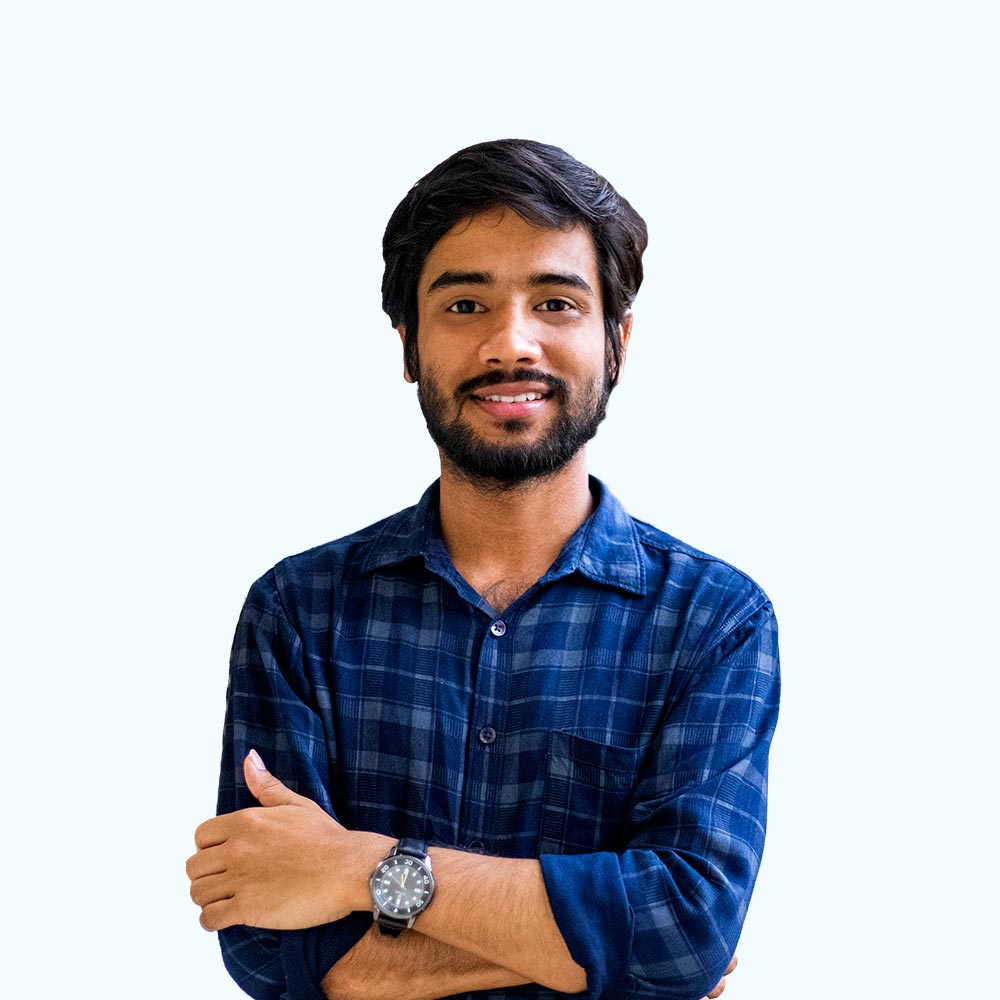
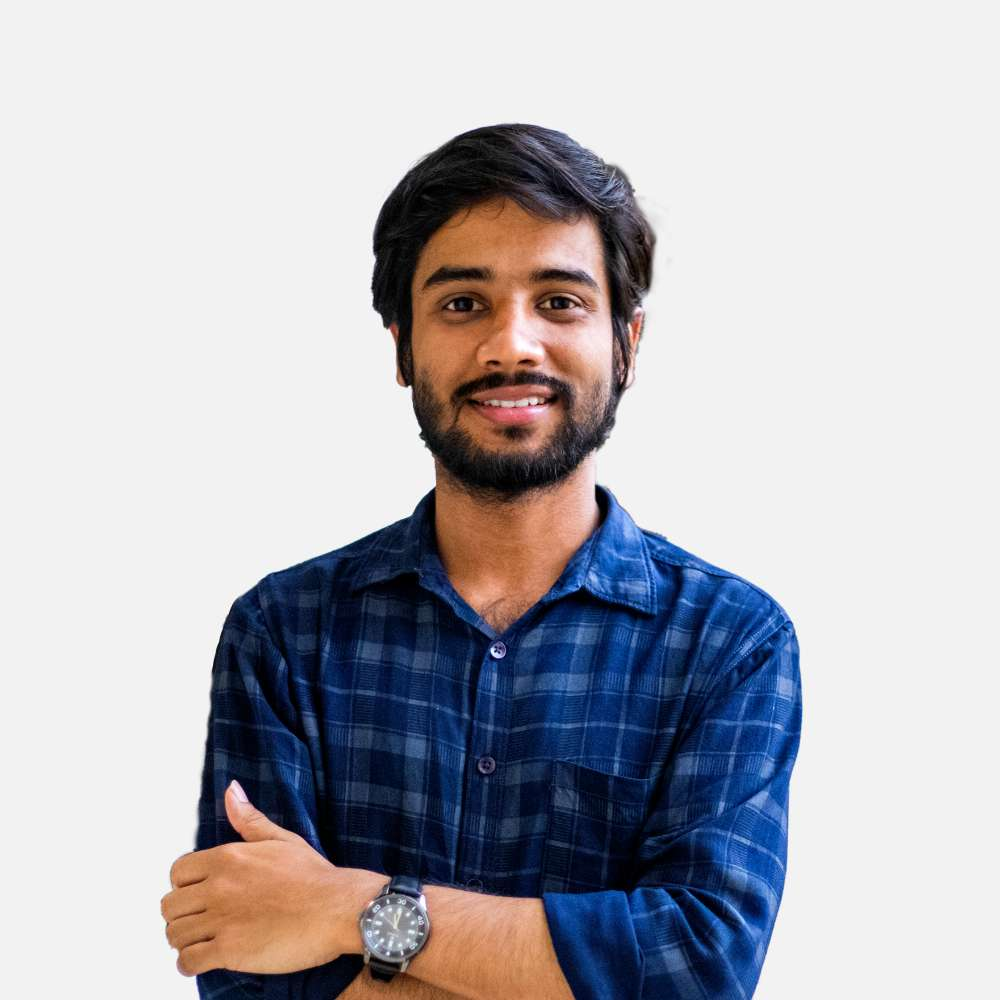
Add dark mode version of the landing image

Changed region(s): [[0.155, 0.124, 0.806, 1.0]]

diff --git a/_sass/_landing.scss b/_sass/_landing.scss
@@ -1,6 +1,42 @@
 // Fine Circle Responsive Image
 // Inspired by https://stackoverflow.com/a/6615994/10194811
 
+/* Hide both images by default */
+.light-img,
+.dark-img {
+  display: none !important; /* Ensure inline styles from WOW.js don't override */
+}
+
+/* Show images based on system preference on load */
+@media (prefers-color-scheme: light) {
+  .light-img {
+    display: block !important;
+  }
+}
+
+@media (prefers-color-scheme: dark) {
+  .dark-img {
+    display: block !important;
+  }
+}
+
+/* Show images based on JS theme toggle */
+[data-theme="light"] .light-img {
+  display: block !important;
+}
+
+[data-theme="light"] .dark-img {
+  display: none !important;
+}
+
+[data-theme="dark"] .light-img {
+  display: none !important;
+}
+
+[data-theme="dark"] .dark-img {
+  display: block !important;
+}
+
 #container {
   display: inline-block;
   position: relative;

diff --git a/_includes/landing.html b/_includes/landing.html
@@ -4,8 +4,9 @@
     <!-- Fine Circle Responsive Image -->
     <div id="container" class="my-2">
       <div id="dummy"></div>
-      <div id="element">
-        <img src="{{ site.author.image }}" alt="{{ site.title }}" class="circle-image wow animated zoomIn" data-wow-delay=".1s">
+      <div id="element" class="wow animated zoomIn" data-wow-delay=".1s">
+        <img src="{{ site.author.image }}" alt="{{ site.title }}" class="circle-image light-img">
+        <img src="{{ site.author.image_dark }}" alt="{{ site.title }}" class="circle-image dark-img">
       </div>
     </div>
 
